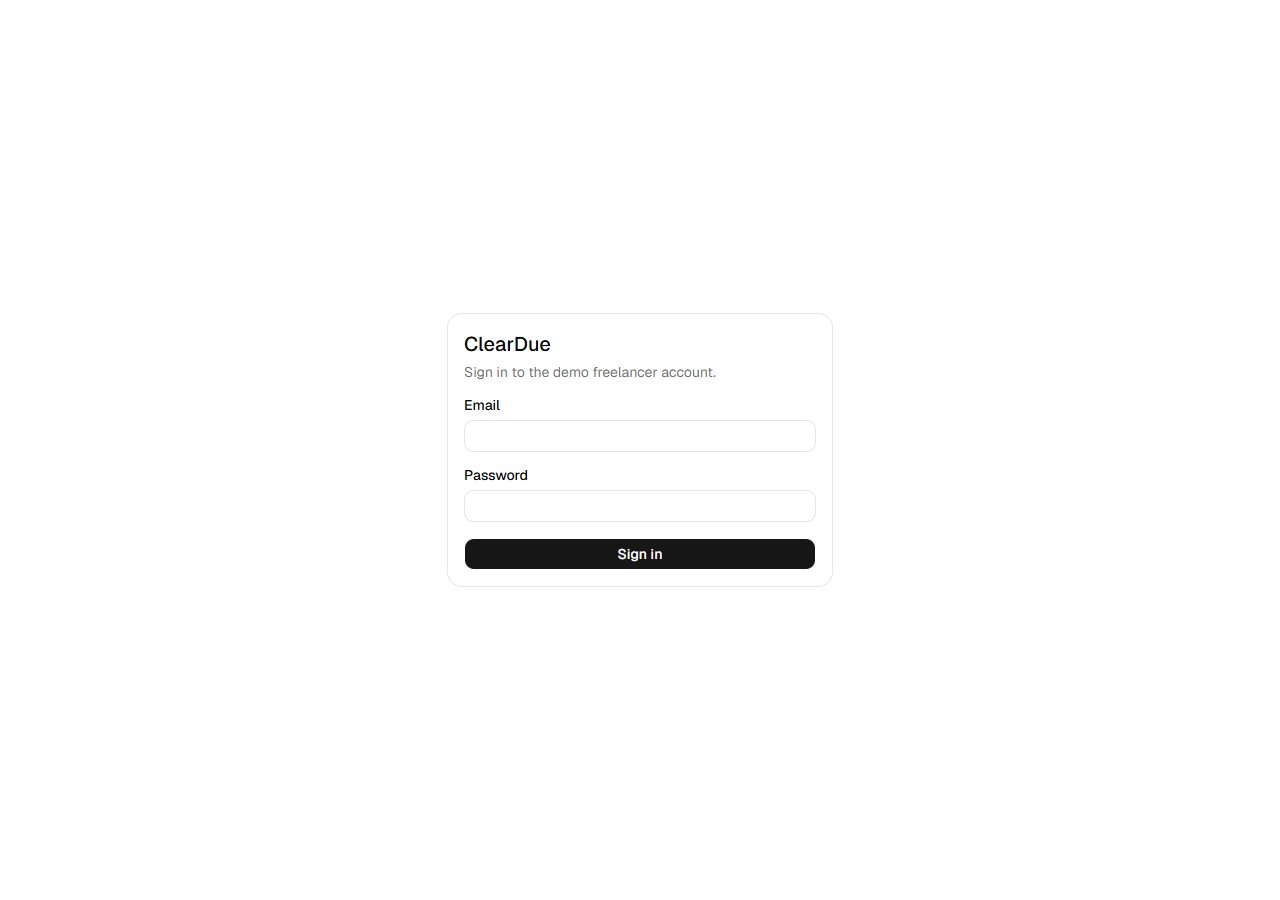
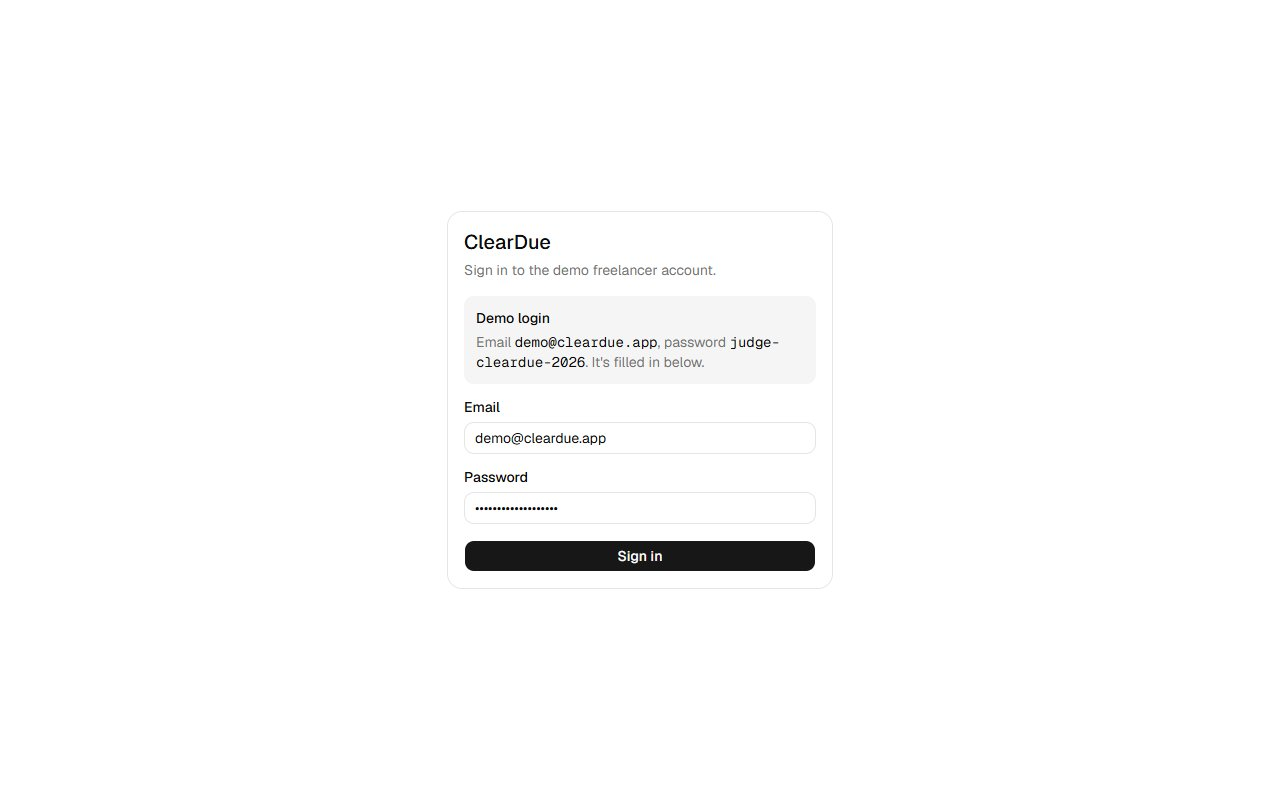
Add the hosted demo URL to the README and hosted screenshots
Screenshots of the hosted login (desktop and mobile), Start here, Acme,
Brightside's plan and Koala's pay page, taken on the Render service with
live AI and real sandbox invoices.

diff --git a/README.md b/README.md
@@ -2,6 +2,8 @@
 
 An AI collections agent for solo Indian freelancers who bill overseas clients through PayPal. ClearDue works out *why* a client hasn't paid (forgot, waiting on approval, short on cash, disputing the work, wrong contact) and takes the matching action, always inside limits the freelancer sets. Clients get an assistant on the pay page that answers questions from the agreed scope, with quotes.
 
+**Live demo:** <https://cleardue-6laj.onrender.com> (PayPal sandbox; the login is under [Testing instructions](#testing-instructions)).
+
 ![A client's pay page: invoice summary, Pay with PayPal, and a scope question answered with quoted citations](docs/screenshot-pay.png)
 
 ## The problem
@@ -158,7 +160,7 @@ npm run dev                   # http://localhost:3000
 
 ### Demo login
 
-Hosted demo: email `demo@cleardue.app`, password `judge-cleardue-2026`. This is a demo-only account shared by all judges, with sandbox PayPal only.
+Hosted demo: [cleardue-6laj.onrender.com](https://cleardue-6laj.onrender.com), email `demo@cleardue.app`, password `judge-cleardue-2026`. This is a demo-only account shared by all judges, with sandbox PayPal only.
 
 Locally, sign in with `DEMO_EMAIL` / `DEMO_PASSWORD` from `.env`. When `DEMO_MODE=true` or `PAYPAL_MODE=mock`, the login page shows these credentials and fills them in. After sign-in, **Start here** walks through the three demo stories (Acme, Brightside, Koala); it can be dismissed and stays in the menu.
 
@@ -206,7 +208,7 @@ Because webhooks can be late or missing, `POST /api/sync` (bearer `CRON_SECRET`)
 
 For judges (also pasted into Devpost):
 
-1. Open the hosted demo and sign in with `demo@cleardue.app` / `judge-cleardue-2026`. PayPal runs in the sandbox: every invoice and payment is fake money, and no real money moves.
+1. Open the hosted demo, <https://cleardue-6laj.onrender.com>, and sign in with `demo@cleardue.app` / `judge-cleardue-2026`. PayPal runs in the sandbox: every invoice and payment is fake money, and no real money moves.
 
    To pay as the client, use the shared PayPal sandbox buyer account: email `SANDBOX_BUYER_EMAIL`, password `SANDBOX_BUYER_PASSWORD` (placeholders until the account is set up). It is a sandbox-only personal account with fake money; it works only on sandbox.paypal.com, not on real PayPal.
 2. You land on **Start here**, with three stories, each about a minute:
